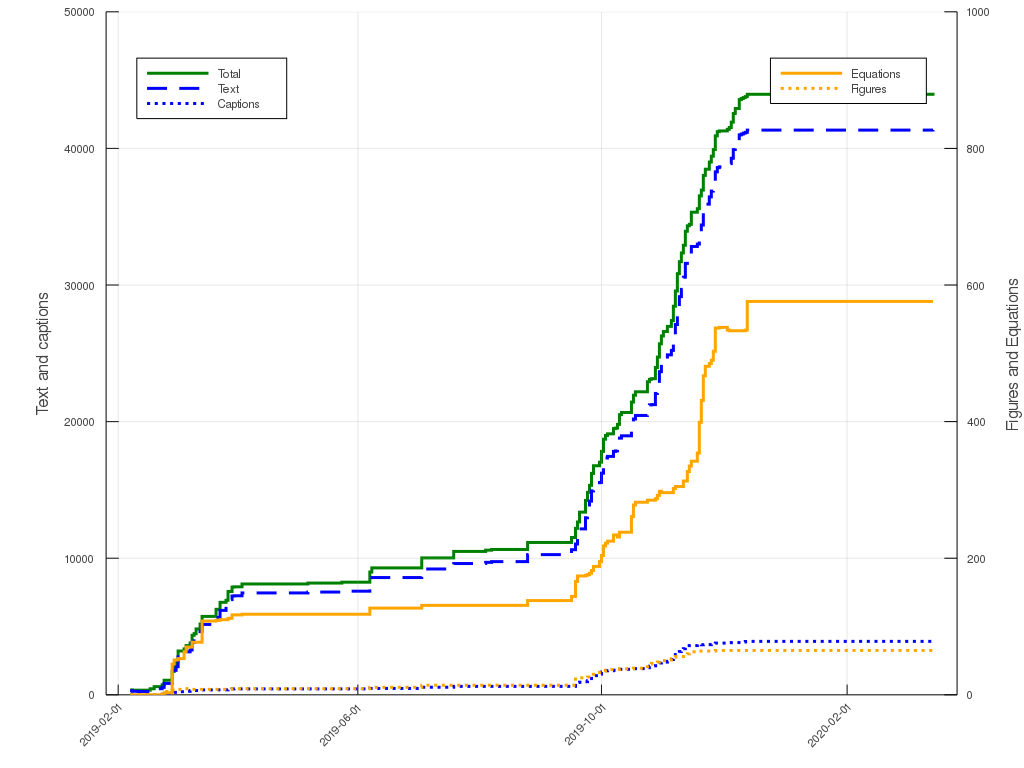
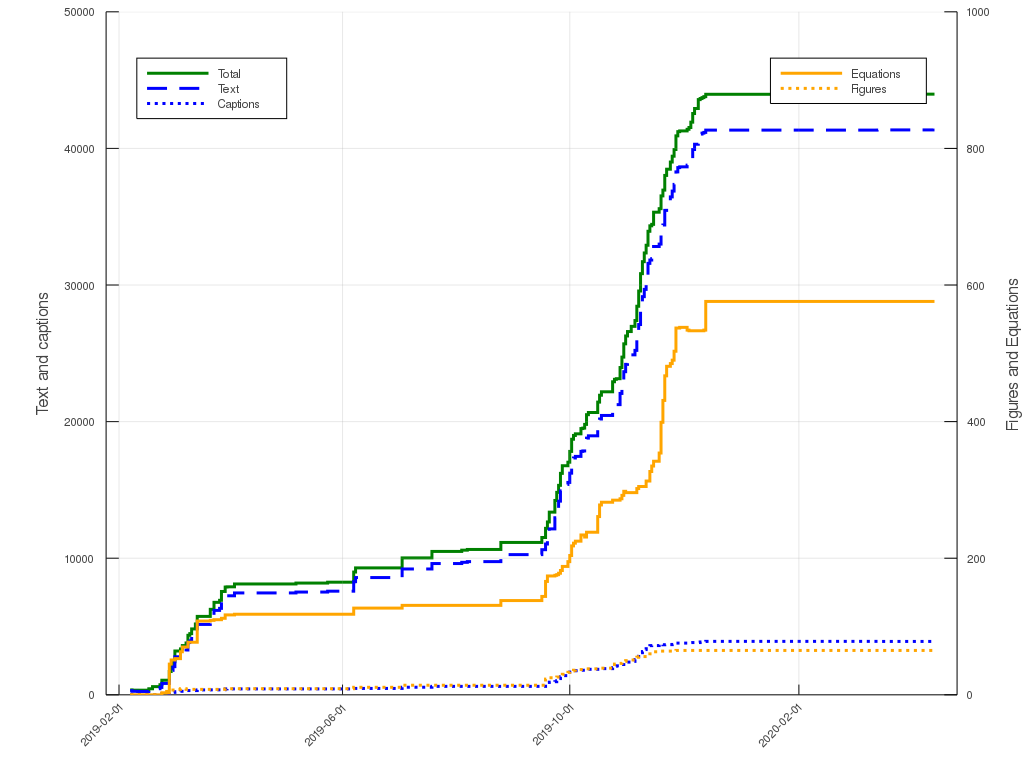
Making corrections for chapter 1

diff --git a/TeXcount/count.tex b/TeXcount/count.tex
@@ -1,1 +1,1 @@
-{\color{white}Word count: 43972}\\
+{\color{white}Word count: 44069}\\
